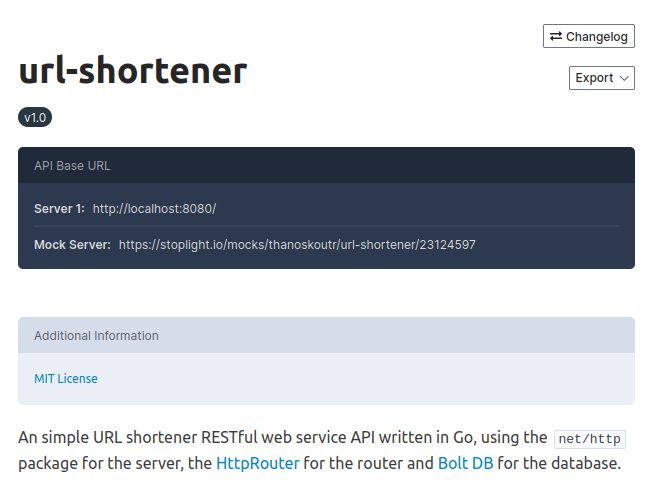
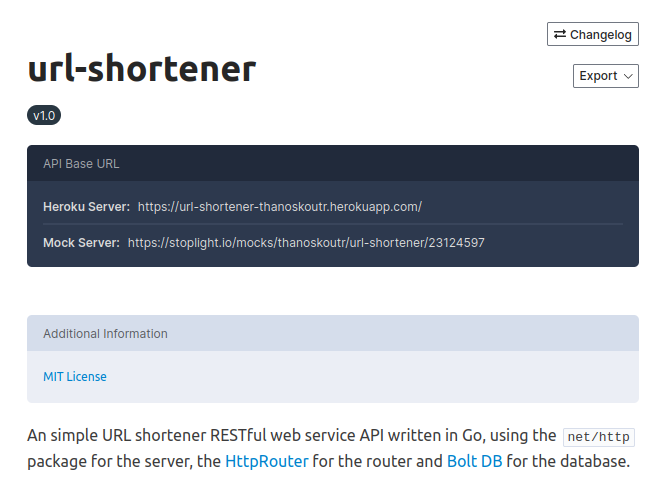
Added Deployment Instructions (Heroku)

diff --git a/Heroku.md b/Heroku.md
@@ -1,0 +1,163 @@
+# Deploy Go Application on Heroku
+
+Guide for deploying the Go web app to Heroku from a Linux (Debian/Ubuntu) machine.
+You have to create an account on Heroku, if you haven't already.
+We will only use the free tier of Heroku, and we don't need to add any credit card.
+
+## Set Up
+
+### Install Git
+
+Install `git`:
+
+```bash
+$ sudo apt install git
+```
+
+Configure `git`:
+
+```bash
+$ git config --global user.name "John Doe"
+$ git config --global user.email johndoe@example.com
+```
+
+### Install Heroku CLI
+
+Install Heroku CLI For Debian/Ubuntu:
+
+```bash
+$ curl https://cli-assets.heroku.com/install-ubuntu.sh | sh
+```
+
+Log in:
+
+```bash
+$ heroku login
+```
+
+You will be redirected to a browser page, where you will have to log in with your Heroku account.
+
+## Prepare the app
+
+### 1. Track your codebase in a Git repository
+
+Already configured with a Git repository.
+
+If your app is not, follow the guide [Deploying with Git - Tracking your app in Git](https://devcenter.heroku.com/articles/git#tracking-your-app-in-git):
+
+```bash
+$ cd myapp
+
+$ git init
+Initialized empty Git repository in .git/
+
+$ git add .
+
+$ git commit -m "My first commit"
+Created initial commit 5df2d09: My first commit
+ 44 files changed, 8393 insertions(+), 0 deletions(-)
+ create mode 100644 README
+ create mode 100644 Procfile
+ create mode 100644 app/controllers/source_file
+...
+```
+
+### 2. Add a Heroku Git remote
+
+You deploy your app by pushing its code to a special Heroku-hosted remote that’s associated with your app. The heroku create CLI command creates a new empty application on Heroku, along with an associated empty Git repository.
+
+Run this command from your app’s root directory, the empty Heroku Git repository is automatically set as a remote for your local repository:
+
+```bash
+$ heroku create
+Creating app... done, ⬢ pure-wildwood-51621
+https://pure-wildwood-51621.herokuapp.com/ | https://git.heroku.com/pure-wildwood-51621.git
+```
+
+Check the new remote:
+
+```bash
+$ git remote -v
+heroku  https://pure-wildwood-51621.herokuapp.com (fetch)
+heroku  https://pure-wildwood-51621.herokuapp.com (push)
+origin  git@github.com:thanoskoutr/url-shortener.git (fetch)
+origin  git@github.com:thanoskoutr/url-shortener.git (push)
+```
+
+Deploy the code to `heroku` remote:
+
+```bash
+$ git push heroku main
+```
+
+- Use this same command whenever you want to deploy the latest committed version of your code to Heroku.
+- Note that Heroku only deploys code that you push to master or main. Pushing code to another branch of the `heroku` remote has no effect.
+
+## Deploy App
+
+After the `git push` on the `heroku` branch, the application is now deployed.
+
+Visit the app at the URL generated by its app name.
+
+As a handy shortcut, you can open the website as follows:
+
+```bash
+$ heroku open
+```
+
+## Free Dyno Hours
+
+Every personal accounts are given a base of 550 free dyno hours each month. If an app has a free web dyno, and that dyno receives no web traffic in a 30-minute period, it will sleep. In addition to the web dyno sleeping, the worker dyno (if present) will also sleep.
+
+To check the amount of free dyno hours remaining by using the CLI:
+
+```bash
+$ heroku ps -a pure-wildwood-51621
+Free dyno hours quota remaining this month: 550h 0m (100%)
+Free dyno usage for this app: 0h 0m (0%)
+```
+
+You can also view this on Dashboard's [billing page](https://dashboard.heroku.com/account/billing), which is refreshed daily to display the updated amount.
+
+## Define config vars
+
+At runtime, config vars are exposed as environment variables to the application. Your application is already reading one config var, the `$PORT` config var. `$PORT` is automatically set by Heroku on web dynos.
+
+A web dyno must bind to its assigned `$PORT` within 60 seconds of startup. If it doesn’t, it is terminated by the dyno manager.
+
+## Rename Heroku App from CLI
+
+You can rename the app's random name given by Heroku to the one you want (if available), with the `heroku apps:rename` command.
+
+To rename this application:
+
+```bash
+$ heroku apps:rename url-shortener-thanoskoutr
+Renaming pure-wildwood-51621 to url-shortener-thanoskoutr... done
+https://url-shortener-thanoskoutr.herokuapp.com/ | https://git.heroku.com/url-shortener-thanoskoutr.git
+ ▸    Don't forget to update git remotes for all other local checkouts of the app.
+Git remote heroku updated
+```
+
+When you rename an app, it immediately becomes available at the new corresponding `herokuapp.com` subdomain and unavailable at the old one.
+
+### Updating Git remotes
+
+If you use the Heroku CLI to rename an app from inside its associated Git repository, your local Heroku remote is updated automatically. **However, other instances of the repository must update the remote’s details manually.**
+
+If you have the repository in other places, update the remote, manually:
+
+```bash
+$ git remote rm heroku
+$ heroku git:remote -a newname
+```
+
+## Links
+
+- [Getting Started on Heroku with Go](https://devcenter.heroku.com/articles/getting-started-with-go)
+- [Heroku Go Support](https://devcenter.heroku.com/articles/go-support)
+- [The Heroku CLI](https://devcenter.heroku.com/articles/heroku-cli)
+- [Preparing a Codebase for Heroku Deployment](https://devcenter.heroku.com/articles/preparing-a-codebase-for-heroku-deployment)
+- [Deploying with Git](https://devcenter.heroku.com/articles/git)
+- [Free Dyno Hours](https://devcenter.heroku.com/articles/free-dyno-hours)
+- [Renaming Apps from the CLI](https://devcenter.heroku.com/articles/renaming-apps)

diff --git a/README.md b/README.md
@@ -4,6 +4,8 @@
 
 An simple URL shortener RESTful web service API written in Go, using the `net/http` package for the server, the [HttpRouter](https://github.com/julienschmidt/httprouter) for the router and [Bolt DB](https://github.com/boltdb/bolt) for the database.
 
+**Deployed on [Heroku](https://www.heroku.com), access it on [url-shortener-thanoskoutr.herokuapp.com](https://url-shortener-thanoskoutr.herokuapp.com)**
+
 ![API Docs Screenshot](images/api-docs.png)
 
 _See [below for API Documentation](#api-specification)_
@@ -75,6 +77,10 @@ $ go get github.com/boltdb/bolt
 $ go get gopkg.in/yaml.v2
 $ go mod tidy
 ```
+
+## Deployment
+
+For instruction on how to deploy this Go web service (or any other Go app) for free on a Platform as a Service cloud provider like Heroku, see the [Heroku Deployment Guide](Heroku.md).
 
 ## Features
 
